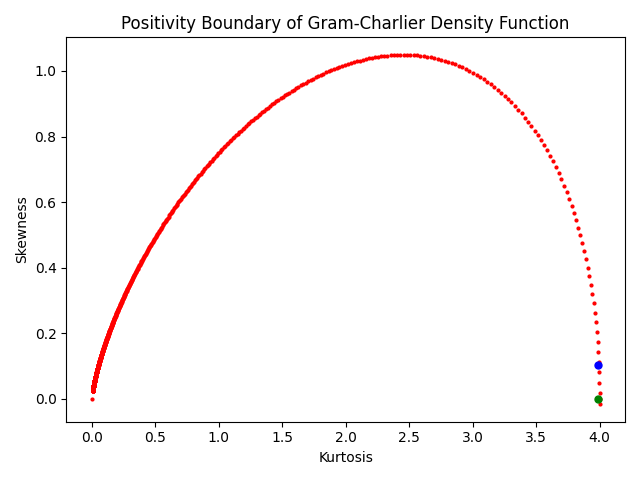
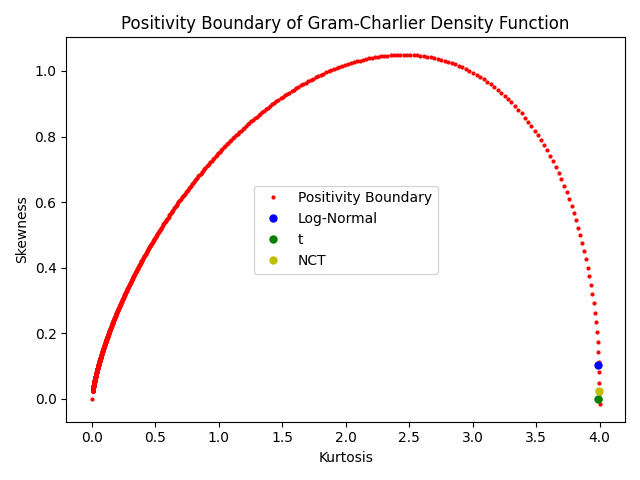
add non-central t distribution for tests

diff --git a/python/gc_positivity_constraints.py b/python/gc_positivity_constraints.py
@@ -1,6 +1,6 @@
 import numpy as np
 import matplotlib.pyplot as plt
-from scipy.stats import norm, lognorm, t
+from scipy.stats import norm, lognorm, t, nct
 
 STEPS = 1000
 Z_START = -10
@@ -74,23 +74,29 @@ def gram_charlier_expansion(x, skewness, kurtosis):
 normal_skew, normal_kurt = norm.stats(moments='sk')
 lognorm_skew, lognorm_kurt = lognorm.stats(0.5, moments = 'sk')
 t_skew, t_kurt = t.stats(5, moments = 'sk')
+nct_skew, nct_kurt = nct.stats(5, 0.5, moments = 'sk')
 
 print(normal_skew, normal_kurt)
 print(lognorm_skew, lognorm_kurt)
 print(t_skew, t_kurt)
+print(nct_skew, nct_kurt)
 
 lognorm_skew, lognorm_kurt = transform_skew_kurt_into_positivity_region(lognorm_skew, lognorm_kurt, intersections)
 t_skew, t_kurt = transform_skew_kurt_into_positivity_region(t_skew, t_kurt, intersections)
+nct_skew, nct_kurt = transform_skew_kurt_into_positivity_region(nct_skew, nct_kurt, intersections)
 print(lognorm_skew, lognorm_kurt)
 print(t_skew, t_kurt)
+print(nct_skew, nct_kurt)
 
 # plot the positivity boundary
 plt.plot([x[0] for x in intersections], [x[1] for x in intersections], linestyle = 'None', marker = 'o', markersize = 2, color = 'r')
 plt.plot([lognorm_kurt], [lognorm_skew], linestyle = 'None', marker = 'o', markersize = 5, color = 'b')
 plt.plot([t_kurt], [t_skew], linestyle = 'None', marker = 'o', markersize = 5, color = 'g')
+plt.plot([nct_kurt], [nct_skew], linestyle = 'None', marker = 'o', markersize = 5, color = 'y')
 plt.title('Positivity Boundary of Gram-Charlier Density Function')
 plt.xlabel('Kurtosis')
 plt.ylabel('Skewness')
+plt.legend(['Positivity Boundary', 'Log-Normal', 't', 'NCT'])
 plt.tight_layout()
 plt.show()
 
@@ -101,29 +107,37 @@ x = np.linspace(-5, 5, 1000)
 normal_expansion = gram_charlier_expansion(x, normal_skew, normal_kurt)
 lognorm_expansion = gram_charlier_expansion(x, lognorm_skew, lognorm_kurt)
 t_expansion = gram_charlier_expansion(x, t_skew, t_kurt)
+nct_expansion = gram_charlier_expansion(x, nct_skew, nct_kurt)
 
 # Plotting
-# plt.figure(figsize=(15, 10))
+plt.figure(figsize=(8, 7))
 
 # Plot Normal distribution and its expansion
-plt.subplot(3, 1, 1)
+plt.subplot(4, 1, 1)
 plt.plot(x, norm.pdf(x), 'r--', label='Normal PDF')
 plt.plot(x, normal_expansion, 'b-', label='Positivity Gram-Charlier Expansion')
 plt.title('Normal Distribution and Positivity Gram-Charlier Expansion')
 plt.legend()
 
 # Plot Skewed distribution and its expansion
-plt.subplot(3, 1, 2)
+plt.subplot(4, 1, 2)
 plt.plot(x, lognorm.pdf(x, 0.5), 'r--', label='Log-Normal PDF')
 plt.plot(x, lognorm_expansion, 'b-', label='Positivity Gram-Charlier Expansion')
 plt.title('Log-Normal Distribution and Positivity Gram-Charlier Expansion')
 plt.legend()
 
 # Plot Heavy-tailed distribution and its expansion
-plt.subplot(3, 1, 3)
+plt.subplot(4, 1, 3)
 plt.plot(x, t.pdf(x, 5), 'r--', label='t PDF')
 plt.plot(x, t_expansion, 'b-', label='Positivity Gram-Charlier Expansion')
 plt.title('t Distribution and Positivity Gram-Charlier Expansion')
+plt.legend()
+
+# Plot Non-central t distribution and its expansion
+plt.subplot(4, 1, 4)
+plt.plot(x, nct.pdf(x, 5, 0.5), 'r--', label='NCT PDF')
+plt.plot(x, nct_expansion, 'b-', label='Positivity Gram-Charlier Expansion')
+plt.title('Non-central t Distribution and Positivity Gram-Charlier Expansion')
 plt.legend()
 
 plt.tight_layout()

diff --git a/python/gc_expansion.py b/python/gc_expansion.py
@@ -1,6 +1,6 @@
 import numpy as np
 import matplotlib.pyplot as plt
-from scipy.stats import norm, lognorm, t
+from scipy.stats import norm, lognorm, t, nct
 
 def hermite_polynomial(n, x):
     if n == 0:
@@ -11,12 +11,12 @@ def hermite_polynomial(n, x):
         return x * hermite_polynomial(n-1, x) - (n-1) * hermite_polynomial(n-2, x)
 
 # plot hermite polynomials
-x = np.linspace(-4, 6, 1000)
-for i in range(6):
-    plt.plot(x, [hermite_polynomial(i, xi) for xi in x], label=f'Hermite {i}')
-plt.legend()
-plt.ylim(-10, 20)
-plt.show()
+# x = np.linspace(-4, 6, 1000)
+# for i in range(6):
+#     plt.plot(x, [hermite_polynomial(i, xi) for xi in x], label=f'Hermite {i}')
+# plt.legend()
+# plt.ylim(-10, 20)
+# plt.show()
 
 # Function to generate Gram-Charlier expansion
 def gram_charlier_expansion(x, skewness, kurtosis):
@@ -26,10 +26,12 @@ def gram_charlier_expansion(x, skewness, kurtosis):
 normal_skew, normal_kurt = norm.stats(moments='sk')
 lognorm_skew, lognorm_kurt = lognorm.stats(0.5, moments = 'sk')
 t_skew, t_kurt = t.stats(5, moments = 'sk')
+nct_skew, nct_kurt = nct.stats(5, 0.5, moments = 'sk')
 
 print(normal_skew, normal_kurt)
 print(lognorm_skew, lognorm_kurt)
 print(t_skew, t_kurt)
+print(nct_skew, nct_kurt)
 
 # Define x range for plotting
 x = np.linspace(-5, 5, 1000)
@@ -38,29 +40,37 @@ x = np.linspace(-5, 5, 1000)
 normal_expansion = gram_charlier_expansion(x, normal_skew, normal_kurt)
 lognorm_expansion = gram_charlier_expansion(x, lognorm_skew, lognorm_kurt)
 t_expansion = gram_charlier_expansion(x, t_skew, t_kurt)
+nct_expansion = gram_charlier_expansion(x, nct_skew, nct_kurt)
 
 # Plotting
-# plt.figure(figsize=(15, 10))
+plt.figure(figsize=(8, 7))
 
 # Plot Normal distribution and its expansion
-plt.subplot(3, 1, 1)
+plt.subplot(4, 1, 1)
 plt.plot(x, norm.pdf(x), 'r--', label='Normal PDF')
 plt.plot(x, normal_expansion, 'b-', label='Gram-Charlier Expansion')
 plt.title('Normal Distribution and Gram-Charlier Expansion')
 plt.legend()
 
 # Plot Skewed distribution and its expansion
-plt.subplot(3, 1, 2)
+plt.subplot(4, 1, 2)
 plt.plot(x, lognorm.pdf(x, 0.5), 'r--', label='Log-Normal PDF')
 plt.plot(x, lognorm_expansion, 'b-', label='Gram-Charlier Expansion')
 plt.title('Log-Normal Distribution and Gram-Charlier Expansion')
 plt.legend()
 
 # Plot Heavy-tailed distribution and its expansion
-plt.subplot(3, 1, 3)
+plt.subplot(4, 1, 3)
 plt.plot(x, t.pdf(x, 5), 'r--', label='t PDF')
 plt.plot(x, t_expansion, 'b-', label='Gram-Charlier Expansion')
 plt.title('t Distribution and Gram-Charlier Expansion')
+plt.legend()
+
+# Plot Non-central t distribution and its expansion
+plt.subplot(4, 1, 4)
+plt.plot(x, nct.pdf(x, 5, 0.5), 'r--', label='NCT PDF')
+plt.plot(x, nct_expansion, 'b-', label='Gram-Charlier Expansion')
+plt.title('Non-central t Distribution and Gram-Charlier Expansion')
 plt.legend()
 
 plt.tight_layout()

diff --git a/python/cornish-fisher-expansion.py b/python/cornish-fisher-expansion.py
@@ -1,6 +1,6 @@
 import numpy as np
 import matplotlib.pyplot as plt
-from scipy.stats import norm, lognorm, t
+from scipy.stats import norm, lognorm, t, nct
 
 def cornish_fisher_expansion(x, skew, kurt):
     """Returns the Cornish-Fisher expansion of a random variable x with skewness skew and kurtosis kurt.
@@ -30,10 +30,12 @@ def cornish_fisher_expansion(x, skew, kurt):
 normal_skew, normal_kurt = norm.stats(moments='sk')
 lognorm_skew, lognorm_kurt = lognorm.stats(0.5, moments = 'sk')
 t_skew, t_kurt = t.stats(5, moments = 'sk')
+nct_skew, nct_kurt = nct.stats(5, 0.5, moments = 'sk')
 
 print(normal_skew, normal_kurt)
 print(lognorm_skew, lognorm_kurt)
 print(t_skew, t_kurt)
+print(nct_skew, nct_kurt)
 
 # Define x range for plotting
 x = np.linspace(-5, 5, 1000)
@@ -42,29 +44,37 @@ x = np.linspace(-5, 5, 1000)
 normal_expansion = cornish_fisher_expansion(x, normal_skew, normal_kurt)
 lognorm_expansion = cornish_fisher_expansion(x, lognorm_skew, lognorm_kurt)
 t_expansion = cornish_fisher_expansion(x, t_skew, t_kurt)
+nct_expansion = cornish_fisher_expansion(x, nct_skew, nct_kurt)
 
 # Plotting
-# plt.figure(figsize=(15, 10))
+plt.figure(figsize=(8, 7))
 
 # Plot Normal distribution and its expansion
-plt.subplot(3, 1, 1)
+plt.subplot(4, 1, 1)
 plt.plot(x, norm.pdf(x), 'r--', label='Normal PDF')
 plt.plot(x, normal_expansion, 'b-', label='Cornish-Fisher Expansion')
 plt.title('Normal Distribution and Cornish-Fisher Expansion')
 plt.legend()
 
 # Plot Skewed distribution and its expansion
-plt.subplot(3, 1, 2)
+plt.subplot(4, 1, 2)
 plt.plot(x, lognorm.pdf(x, 0.5), 'r--', label='Log-Normal PDF')
 plt.plot(x, lognorm_expansion, 'b-', label='Cornish-Fisher Expansion')
 plt.title('Log-Normal Distribution and Cornish-Fisher Expansion')
 plt.legend()
 
 # Plot Heavy-tailed distribution and its expansion
-plt.subplot(3, 1, 3)
+plt.subplot(4, 1, 3)
 plt.plot(x, t.pdf(x, 5), 'r--', label='t PDF')
 plt.plot(x, t_expansion, 'b-', label='Cornish-Fisher Expansion')
 plt.title('t Distribution and Cornish-Fisher Expansion')
+plt.legend()
+
+# Plot Non-central t distribution and its expansion
+plt.subplot(4, 1, 4)
+plt.plot(x, nct.pdf(x, 5, 0.5), 'r--', label='NCT PDF')
+plt.plot(x, nct_expansion, 'b-', label='Cornish-Fisher Expansion')
+plt.title('Non-central t Distribution and Cornish-Fisher Expansion')
 plt.legend()
 
 plt.tight_layout()

diff --git a/python/expansion_test.md b/python/expansion_test.md
@@ -11,11 +11,15 @@ Three distributions:
 - student's t, parameter: $\nu$
     - skewness 0 for $\nu>3$
     - excess kurtosis $\frac{6}{\nu-4}$ for $\nu>4$
+- non-central t, paramter: $\nu, \mu$
+    - skewness $\frac{\mu\sqrt{\nu}\Gamma\left(\frac{\nu-1}{2}\right)\left(\frac{\nu(\mu^2+2\nu-3)}{(\nu-3)(\nu-2)}-2\left(\frac{(\mu^2+1)\nu}{\nu-2} - \frac{\mu^2\nu\Gamma\left(\frac{\nu-1}{2}\right)^2}{2\Gamma\left(\frac{\nu}{2}\right)^2}\right)\right)}{\sqrt{2}\Gamma\left(\frac{\nu}{2}\right)\left(\frac{(\mu^2+1)\nu}{\nu-2} -\frac{\mu^2\nu\Gamma\left(\frac{\nu-1}{2}\right)^2}{2\Gamma\left(\frac{\nu}{2}\right)^2}\right)^{3/2}}$ for $\nu>3$
+    - excess kurtosis $\frac{\frac{(\mu^4+6\mu^2+3)\nu^2}{(\nu-4)(\nu-2)} - \frac{\mu^2\nu}{2\Gamma\left(\frac{\nu}{2}\right)^2}\Gamma\left(\frac{\nu-1}{2}\right)^2\left(\frac{\nu(\mu^2(\nu+1)+3(3\nu-5))}{(\nu-3)(\nu-2)} - 3\left(\frac{(\mu^2+1)\nu}{\nu-2} - \frac{\mu^2\nu\Gamma\left(\frac{\nu-1}{2}\right)^2}{2\Gamma\left(\frac{\nu}{2}\right)^2}\right)\right)}{\left(\frac{(\mu^2+1)\nu}{\nu-2} - \frac{\mu^2\nu\Gamma\left(\frac{\nu-1}{2}\right)^2}{2\Gamma\left(\frac{\nu}{2}\right)^2}\right)^2}-3$ for $\nu>4$
 
-Set parameters to $\sigma=0.5$ and $\nu=5$, yields (skewness, excess kurtosis):
+Set parameters to $\sigma=0.5$, $\nu=5$ and $\mu=0.5$, yields (skewness, excess kurtosis):
 - normal distribution 0 0
 - lognormal: 1.7501896550697178 5.898445673784778
 - t: 0 6
+- nct: 0.6751189806173602 7.218914650141592
 
 ## Gram-Charlier Expansion
 
@@ -28,6 +32,7 @@ Set parameters to $\sigma=0.5$ and $\nu=5$, yields (skewness, excess kurtosis):
 Transforms skewness and kurtosis to
 - lognormal: 0.10234746774707859 3.989055204819389
 - t: 0.0 3.9901095073734614
+- nct: 0.024892965655198204 3.9970717567756724
 
 ![alt text](gc_positivity_expansion.png)
 - fit is not good
